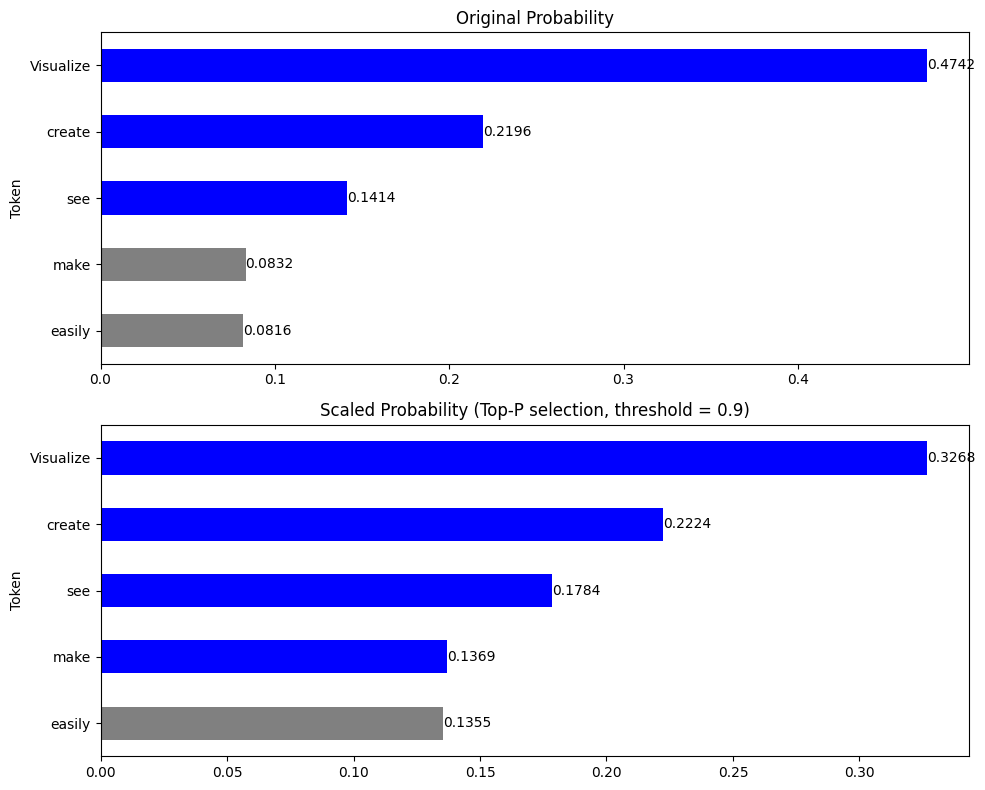
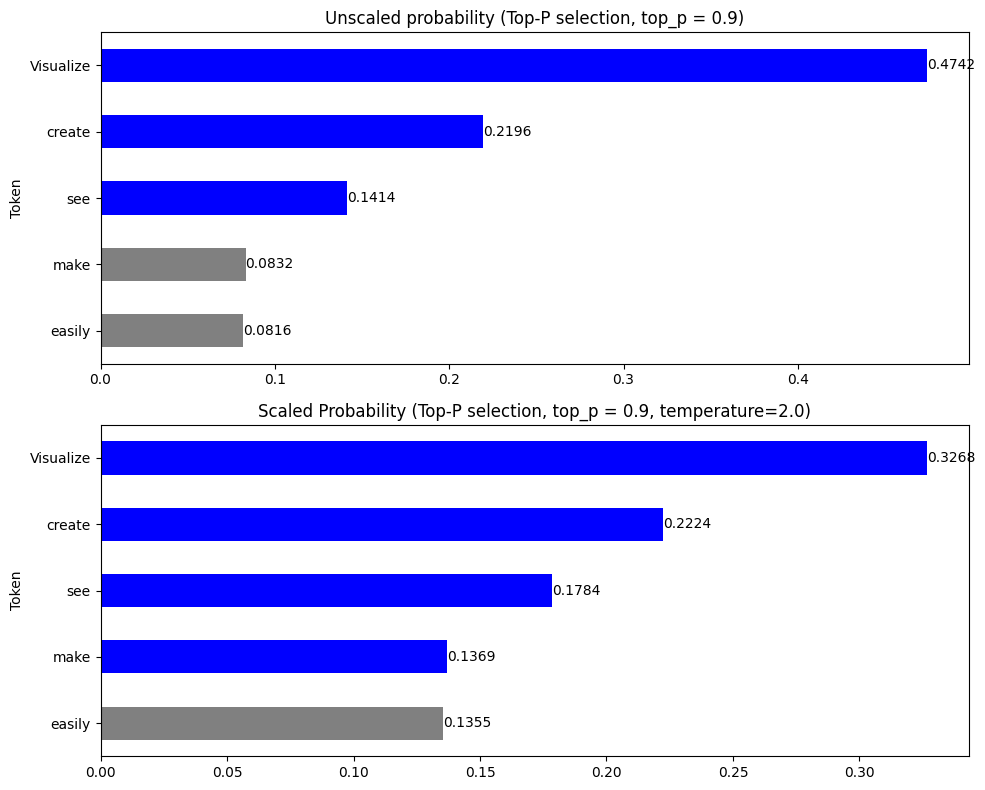
Fix issues with the interactive notebook

Changed region(s): [[0.2741, 0.4861, 0.8223, 0.5468], [0.335, 0.0, 0.7614, 0.0304]]

diff --git a/manuscript/04-the-art-and-nonsense-of-prompt-engineering.md b/manuscript/04-the-art-and-nonsense-of-prompt-engineering.md
@@ -454,10 +454,10 @@ want greater variety.
 
 LLMs don't just use Top-P sampling. The people who invented these types of models found
 that Top-P sampling isn't enough to get natural text. So they decided to add temperature
-to the mix. Temperature controls the softness of the probability distribution used to
+to the mix. Temperature controls the shape of the probability distribution used to
 perform Top-P sampling.
 
-Before performing the cummulative probability based selection, the raw scores for the
+Before performing the Top-P sampling, the raw scores for the
 candidate tokens are divided by the temperature value. After that the softmax function
 is applied to determine the probabilities for the candidate tokens. In
 [#s](#temperature-effects) you can see this in action with a before and after.
@@ -474,6 +474,12 @@ Ideally you'd want to see the distribution of each of the tokens in the output t
 an informed decision about the temperature and Top-P values, but you can't do that. I'm
 not 100% sure why this information isn't available, but my guess is that it would expose
 too many details of the internal to the user of the LLM.
+
+At this point I understand that you're probably thinking that this is a lot to get
+through. And it is. I've included an interactive notebook that demonstrates Top-P
+sampling and temperature scaling in the [GitHub repository][TOP_P_SAMPLE]. You can run
+the notebook inside Visual Studio Code to explore the effects of temperature and Top-P
+sampling to get a better understanding of these concepts.
 
 #### Presence Penalty
 
@@ -564,3 +570,4 @@ to interact with them.
 
 [CONTEXT_WINDOW_PAPER]: https://arxiv.org/abs/2307.03172
 [LLM_ALIGNMENT]: https://medium.com/@madalina.lupu.d/align-llms-with-reinforcement-learning-from-human-feedback-595d61f160d5
+[TOP_P_SAMPLE]: https://github.com/wmeints/effective-llm-applications/tree/main/notebooks

diff --git a/notebooks/README.md b/notebooks/README.md
@@ -1,17 +1,23 @@
 # Interactive Python Notebooks
 
-This book not only comes with samples in C#. I've included some useful notebooks to help visualize various concepts.
-Currently, I have one notebook for the following topics:
+This book not only comes with samples in C#. I've included some useful notebooks to help
+visualize various concepts. Currently, I have one notebook for the following topics:
 
 - Temperature scaling
 - Top-P sampling
 
 ## Running the notebooks
 
-You need to have python 3.12 for the notebooks to work. You can install it from the [official website](https://www.python.org/downloads/).
-I recommend using a virtual environment. You can create one by executing the following command from the root of the repository in a terminal window:
+You need to have python 3.12 for the notebooks to work. You can install it from the
+[official website](https://www.python.org/downloads/). In addition to a working Python
+installation you'll want to get the [Notebook
+extension](https://marketplace.visualstudio.com/items?itemName=ms-dotnettools.dotnet-interactive-vscode)
+for Visual Studio Code.
 
-```bash 
+I recommend using a dedicated virtual environment for the notebooks. You can create one
+by executing the following command from the root of the repository in a terminal window:
+
+```bash
 python -m venv .venv
 ```
 
@@ -28,3 +34,6 @@ Finally, install the required packages:
 ```bash
 pip install -r requirements.txt
 ```
+
+You can now open [the notebook](./visualize-top-p.ipynb) in Visual Studio Code and run
+the contents by pressing the "Run All" button on the toolbar.
